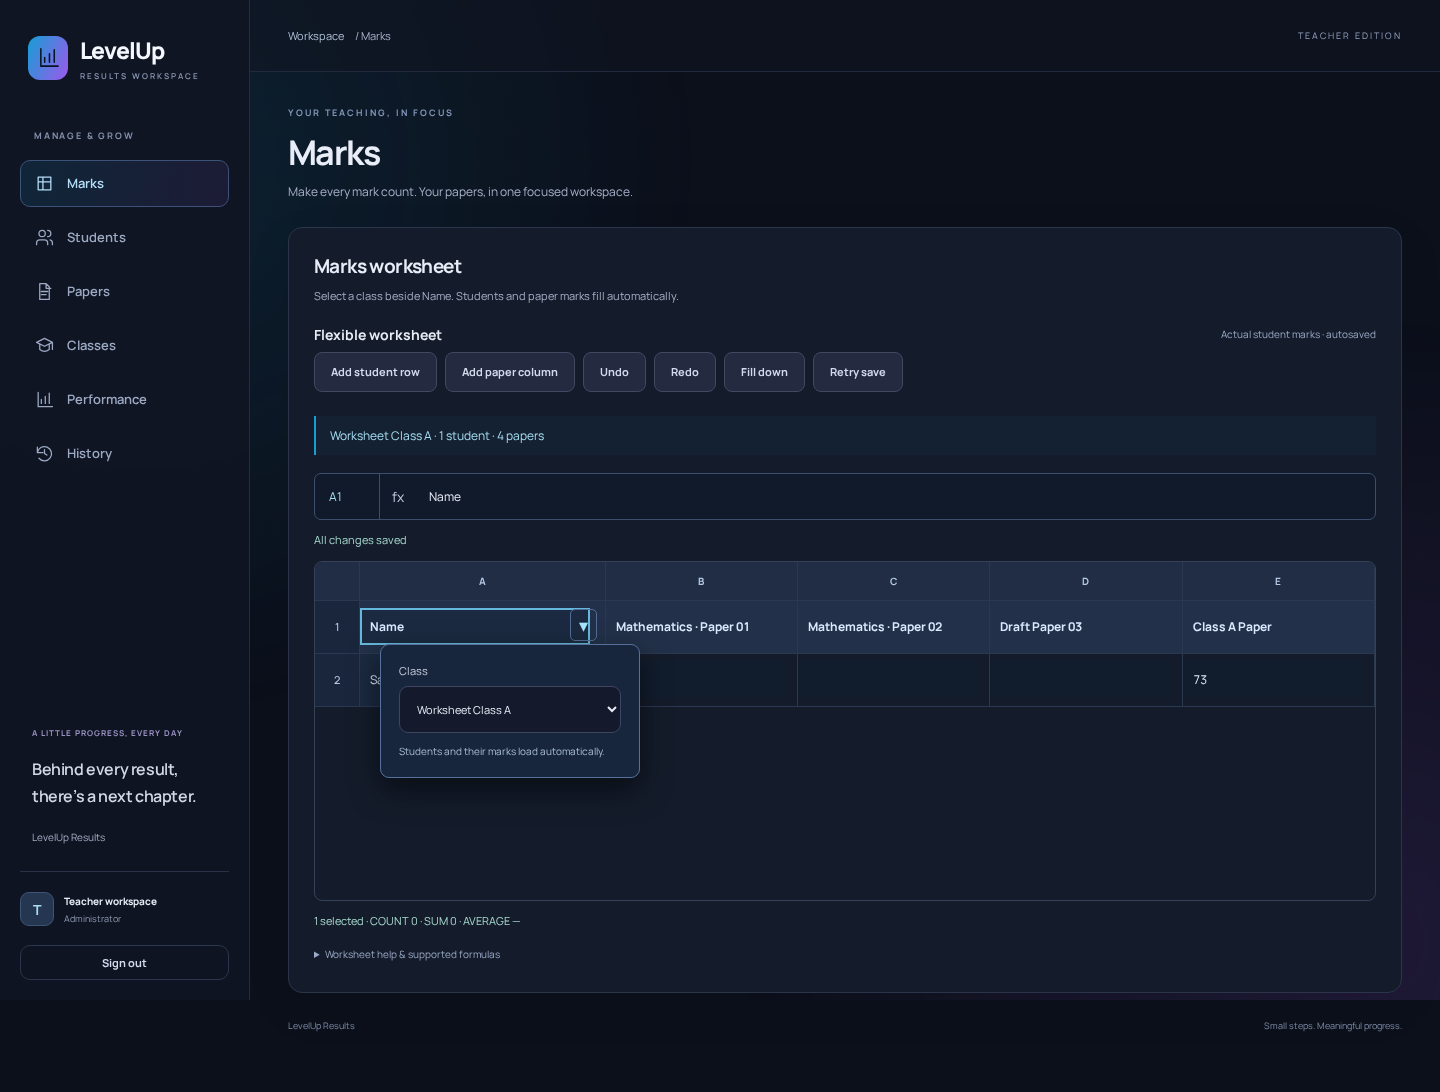
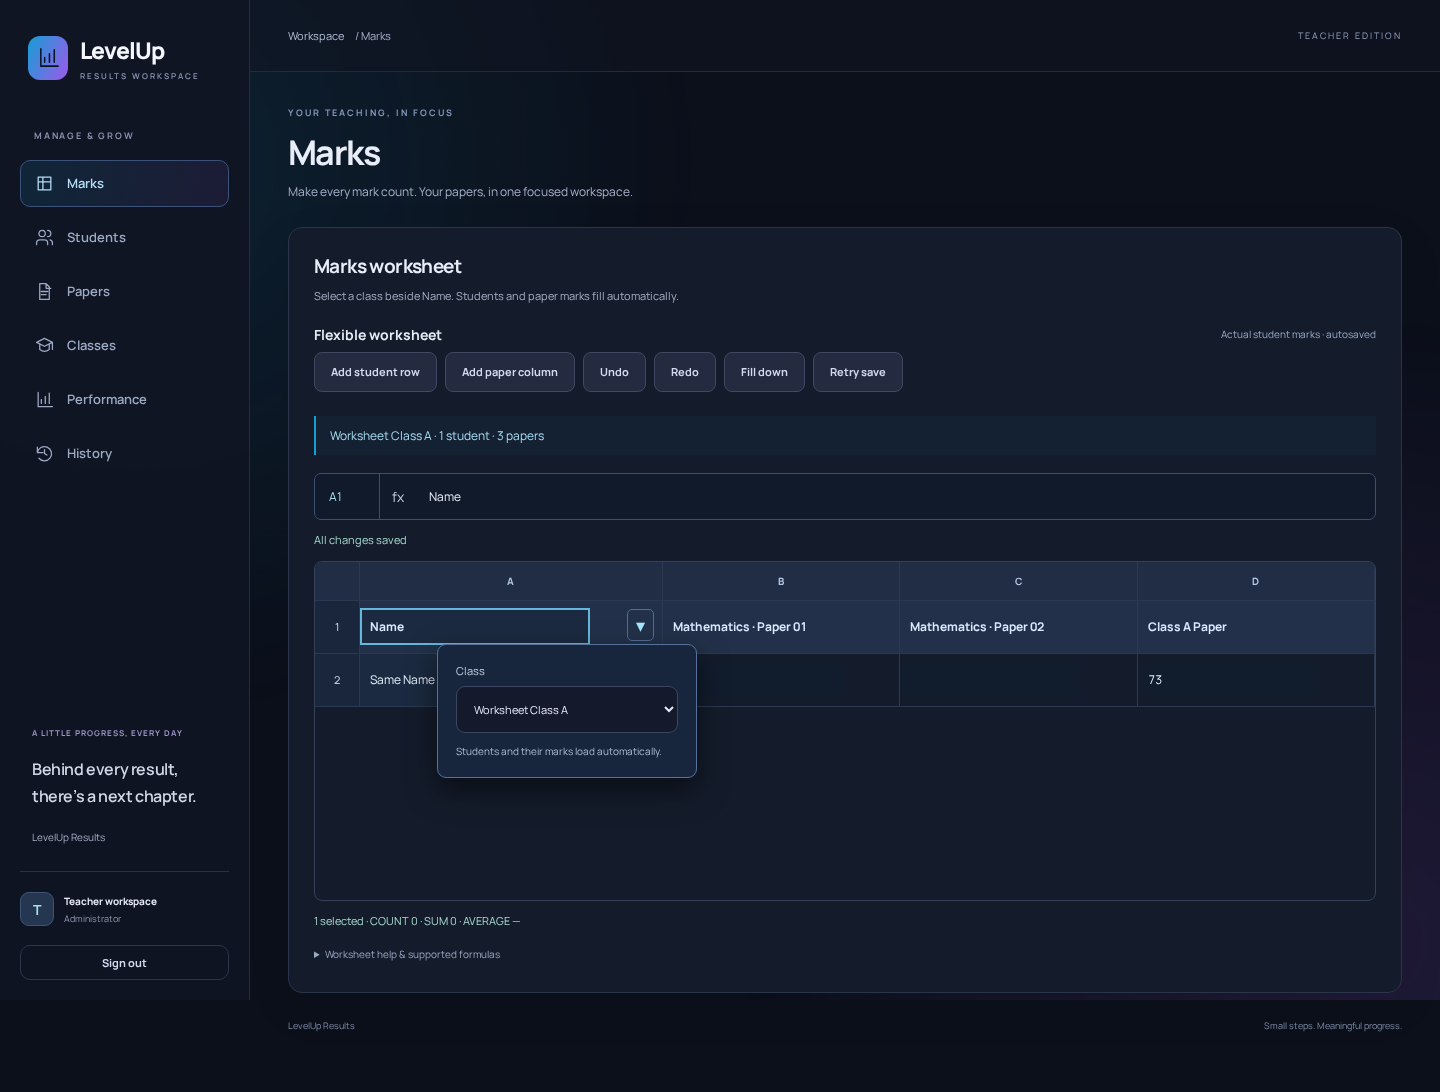
Keep the Name class picker accessible for oversized rosters

Changed region(s): [[0.2812, 0.5916, 0.4688, 0.7161], [0.4062, 0.5604, 0.75, 0.5916], [0.8125, 0.5604, 0.875, 0.5916]]

diff --git a/public/marks-workbook.js b/public/marks-workbook.js
@@ -25,7 +25,7 @@ export async function mountMarksWorkbook(
     }
     loading = true;
     try {
-      const students = data.students
+      let students = data.students
         .filter(
           (s) =>
             s.active &&
@@ -35,9 +35,22 @@ export async function mountMarksWorkbook(
         .sort(
           (a, b) => a.name.localeCompare(b.name) || a._id.localeCompare(b._id),
         );
-      const papers = data.papers.filter(
+      let papers = data.papers.filter(
         (p) => !next || !p.classId || p.classId === next,
       );
+      const oversized =
+        Math.max(2, students.length + 1) * Math.max(2, papers.length + 1) >
+          10000 ||
+        students.length > 499 ||
+        papers.length > 99;
+      if (oversized && controller)
+        throw Error(
+          "This class exceeds the worksheet limit. Select a smaller class (up to 499 students, 99 papers and 10,000 cells).",
+        );
+      if (oversized) {
+        students = [];
+        papers = [];
+      }
       const cells = { A1: "Name" };
       papers.forEach((p, c) => (cells[columnName(c + 1) + "1"] = p.name));
       students.forEach((s, r) => {
@@ -60,14 +73,6 @@ export async function mountMarksWorkbook(
         cells,
         revision: 0,
       };
-      if (
-        state.rows * state.columns > 10000 ||
-        state.rows > 500 ||
-        state.columns > 100
-      )
-        throw Error(
-          "This class exceeds the worksheet limit. Use a smaller class (up to 499 students, 99 papers and 10,000 cells).",
-        );
       const editable = (r, c) =>
         r > 0 &&
         c > 0 &&
@@ -78,17 +83,21 @@ export async function mountMarksWorkbook(
       controller = await mountWorkbook(host, data, {
         state,
         editable,
-        caption: `${next === "unassigned" ? "Students without a class" : data.classes.find((cls) => cls._id === next)?.name || "All students"} · ${students.length} ${students.length === 1 ? "student" : "students"} · ${papers.length} ${papers.length === 1 ? "paper" : "papers"}`,
+        caption: oversized
+          ? "Choose a class to load marks"
+          : `${next === "unassigned" ? "Students without a class" : data.classes.find((cls) => cls._id === next)?.name || "All students"} · ${students.length} ${students.length === 1 ? "student" : "students"} · ${papers.length} ${papers.length === 1 ? "paper" : "papers"}`,
         addStudent: () => addStudent?.(next === "unassigned" ? "" : next),
         addPaper: () => addPaper?.(next === "unassigned" ? "" : next),
         classes: data.classes,
         classId: next,
         onClassChange: load,
-        emptyMessage: !students.length
-          ? "No active students in this class. Add a student row to get started."
-          : !papers.length
-            ? "No papers yet. Add a paper column to begin entering marks."
-            : "",
+        emptyMessage: oversized
+          ? "This roster is too large to display at once. Use the Name header dropdown to select a smaller class."
+          : !students.length
+            ? "No active students in this class. Add a student row to get started."
+            : !papers.length
+              ? "No papers yet. Add a paper column to begin entering marks."
+              : "",
         save: async (workbook) => {
           const calculate = calculator(
               workbook.cells,

diff --git a/tests/browser/application.spec.js b/tests/browser/application.spec.js
@@ -827,3 +827,39 @@ test("Name header class dropdown autofills roster, paper headers and actual mark
     ),
   ).toBeTruthy();
 });
+
+test("Name class picker stays usable when the all-students roster exceeds worksheet limits", async ({
+  page,
+}) => {
+  const classId = "123456789012345678901234";
+  await page.route("**/api/admin/data", async (route) => {
+    const response = await route.fetch(),
+      data = await response.json();
+    data.classes = [{ _id: classId, name: "Small class" }];
+    data.students = Array.from({ length: 501 }, (_, i) => ({
+      _id: (i + 1).toString(16).padStart(24, "0"),
+      name: "Roster student " + String(i).padStart(3, "0"),
+      active: true,
+      classId: i === 0 ? classId : null,
+    }));
+    data.marks = [];
+    await route.fulfill({ response, json: data });
+  });
+  await signIn(page);
+  await expect(
+    page.getByText(
+      "This roster is too large to display at once. Use the Name header dropdown to select a smaller class.",
+      { exact: true },
+    ),
+  ).toBeVisible();
+  await page.getByLabel("Choose class", { exact: true }).click();
+  await page
+    .getByRole("combobox", { name: "Select class", exact: true })
+    .selectOption(classId);
+  await expect(
+    page.getByRole("textbox", { name: "A2", exact: true }),
+  ).toHaveValue("Roster student 000");
+  await expect(
+    page.getByRole("textbox", { name: "A3", exact: true }),
+  ).toHaveCount(0);
+});

diff --git a/README.md b/README.md
@@ -169,7 +169,7 @@ Admin UI previews: [marks workspace](docs/screenshots/admin.png), [paper managem
 **Admin → Marks** opens one flexible worksheet directly. There is no separate Student marks section.
 
 - **Row 1** contains headers: **Name** in A1, followed by paper names in spreadsheet/reveal order.
-- **Column A** contains student names and profile labels. Click the **dropdown arrow beside Name**, then choose a class. Its active students, applicable paper columns and saved marks fill automatically. All students and Students without a class are also available. The selected class is remembered for the current browser session.
+- **Column A** contains student names and profile labels. Click the **dropdown arrow beside Name**, then choose a class. Its active students, applicable paper columns and saved marks fill automatically. All students and Students without a class are also available. The selected class is remembered for the current browser session. If the full roster exceeds the worksheet limit, the Name dropdown stays available so you can choose a smaller class.
 - Names and headers are protected so cell edits cannot overwrite identities. **Add student row** creates a real student; **Add paper column** creates a draft paper. Both default to the selected class. Edit/deactivate profiles in Students and manage paper metadata/publication in Papers.
 - Mark cells support numbers, **A** for absent, blank for no result, formulas, multi-cell selection, TSV copy/paste, fill down, undo/redo, a formula bar and autosaving. A zero remains a real result. Marks must stay within each paper's maximum with at most two decimal places.
 - Supported functions: `SUM`, `AVERAGE`, `MIN`, `MAX`, `COUNT`, `COUNTA`, `ROUND`, `ABS`, `IF`, `AND`, `OR`, `NOT`; arithmetic, comparisons, percentages, quoted strings, references and ranges are supported. Example: `=ROUND(SUM(B2:C2)/2,2)`. Avoid referencing the formula's own cell. Expressions never execute JavaScript or access external services.

diff --git a/docs/testing.md b/docs/testing.md
@@ -38,4 +38,6 @@ Validation: 21 Node tests (16 API integration tests and five formula-engine test
 
 ## Unified class marks worksheet
 
-23 Node tests (17 API tests and six formula/reference tests) and 19 browser tests cover the updated workflow. The previous two-workspace browser cases were replaced with checks for one worksheet, protected Name/paper headers, actual mark persistence, live formula persistence/recalculation, duplicate-name class isolation, dropdown-driven auto-fill, zero marks, empty classes, class selection across reload, preselected class in row/column creation dialogs, and failed-save class-change/navigation blocking. Existing paste, fill, undo/redo, validation, keyboard exit, mobile, auth, publication and student reveal coverage remains. Reference tests explicitly reorder student and paper IDs and verify missing references produce #REF!.
+23 Node tests (17 API tests and six formula/reference tests) and 20 browser tests cover the updated workflow. The previous two-workspace browser cases were replaced with checks for one worksheet, protected Name/paper headers, actual mark persistence, live formula persistence/recalculation, duplicate-name class isolation, dropdown-driven auto-fill, zero marks, empty classes, class selection across reload, preselected class in row/column creation dialogs, and failed-save class-change/navigation blocking. Existing paste, fill, undo/redo, validation, keyboard exit, mobile, auth, publication and student reveal coverage remains. Reference tests explicitly reorder student and paper IDs and verify missing references produce #REF!.
+
+A 501-student boundary test verifies that the Name class picker remains available when the all-students view exceeds the worksheet limit; selecting a small class loads normally. Playwright gracefully stops the fixture server so its temporary MongoDB data is removed.
